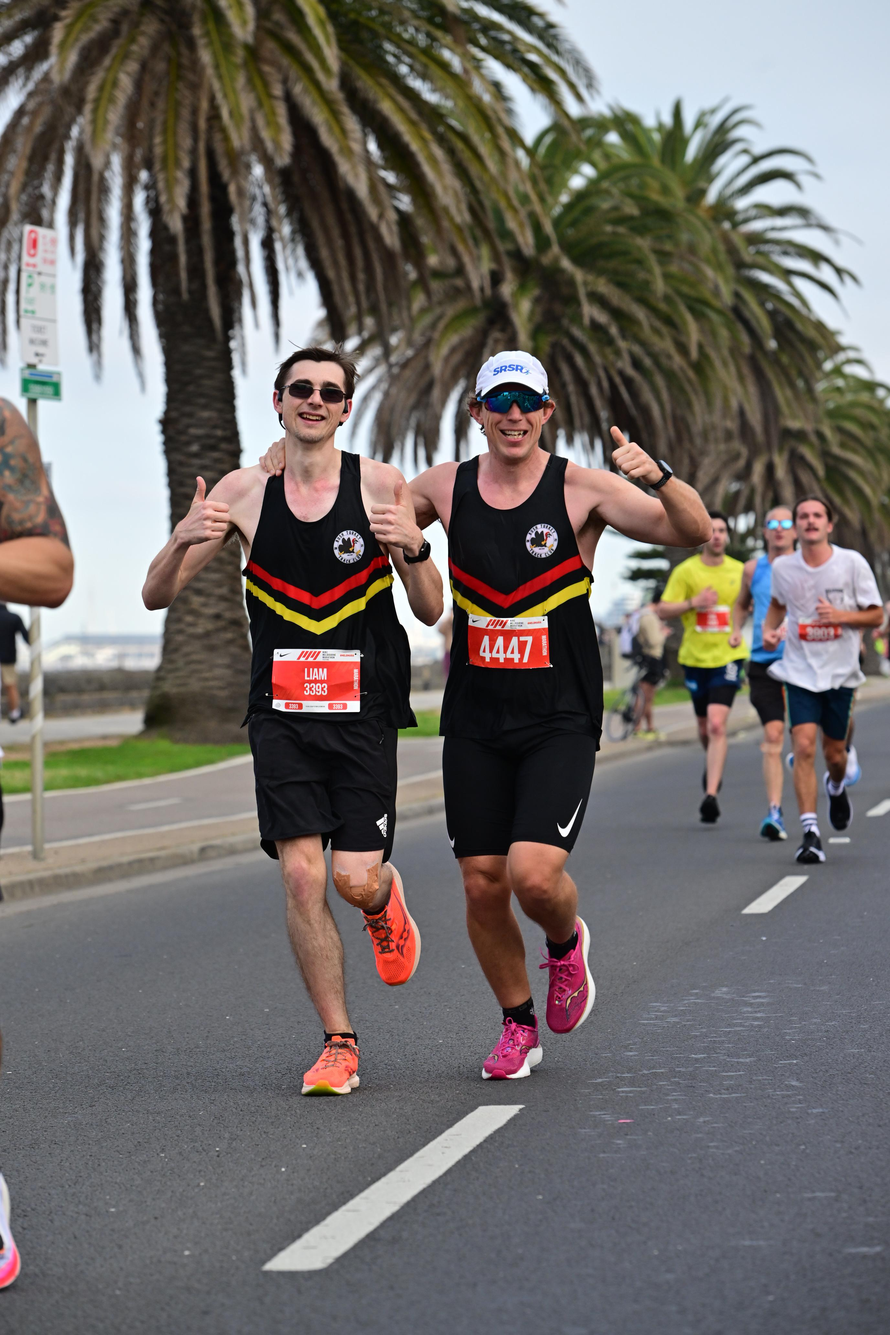
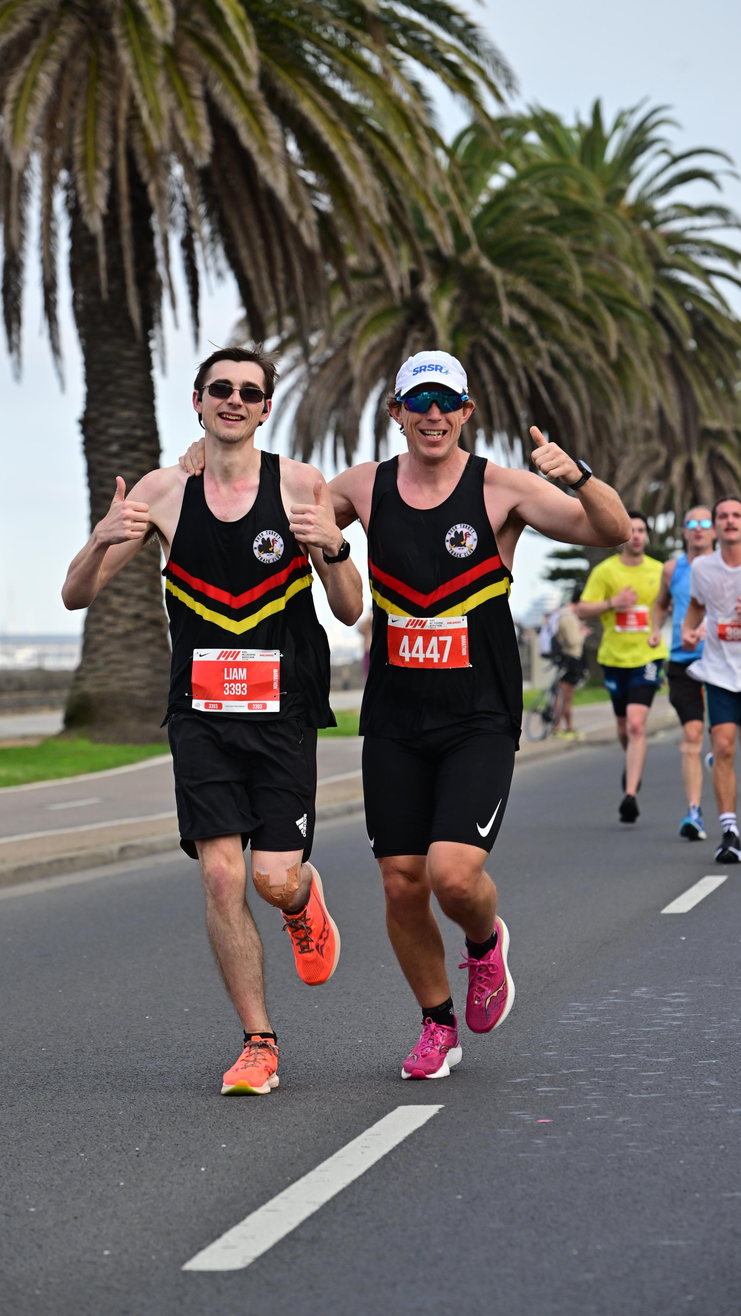
fixed pics

diff --git a/team.html b/team.html
@@ -42,7 +42,7 @@
 					<div class="inner">
 						<h1>Meet the Team</h1>
 						<div class="image">
-							<img src="images/melbourne-marathon-2022-2_x1080.jpg" alt="Upcoming Events" style="max-height:600px; width:auto;"/></a>
+							<img src="images/melbourne-marathon-2022-2_x540.jpg" alt="Upcoming Events"/></a>
 						</div>	
 						<div class="items style1 small">
 							<section><p>Aidan Dineen</p></section>
